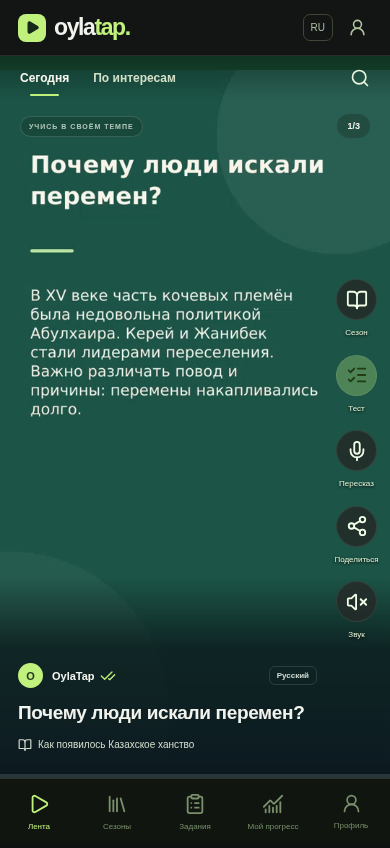
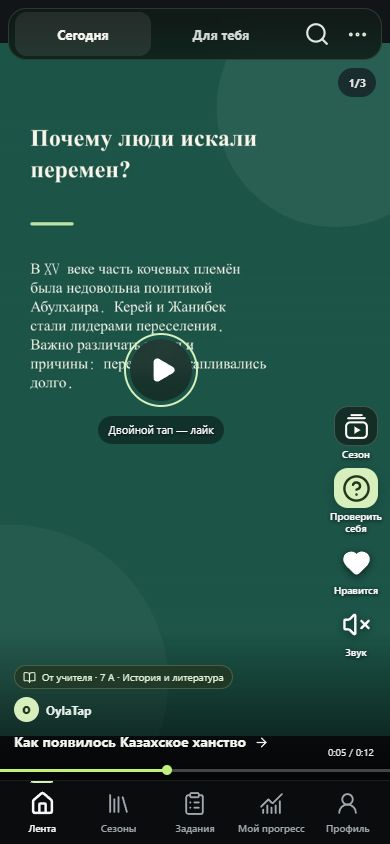
Refresh product README and save next iteration plan for October 18

Changed region(s): [[0.0, 0.3081, 1.0, 0.9858], [0.0, 0.0, 1.0, 0.5237]]

diff --git a/README.md b/README.md
@@ -1,109 +1,88 @@
 # OylaTap
 
-Первая рабочая версия образовательной PWA по [концепции 2.0](<Concept 2.0>). Основной экран — тёмная вертикальная лента: свайп между сериями, тест и пересказ рядом с видео. Интерфейс адаптирован для телефона и компьютера, основные сценарии доступны на русском и казахском.
+Образовательная платформа для школьников 11+ в Казахстане, учителей и авторов. Короткие вертикальные видео → микровопросы → итоговый тест → пересказ → прогресс. Первые направления — литература и история; также доступны алгебра и геометрия. Это не сервис подготовки к ЕНТ.
 
-## Что работает
+React + TypeScript + Vite, Express, **PostgreSQL 17** в Docker. Интерфейс на русском и казахском. Рабочая ветка — **main**, изменения отправляются напрямую коммитами.
 
-- Аккаунты ученика и учителя, вход, выход, настройки профиля. Пароли хешируются с scrypt, сессии хранятся в PostgreSQL, cookie — HttpOnly.
-- Видео занимает главный экран: свайп, действия справа, навигация снизу на телефоне. На компьютере блок «О теме» можно скрыть; есть перемотка и пауза пробелом. «Спокойный режим» по умолчанию приглушает акценты и уменьшает декоративную анимацию; настройки оформления и фокуса сохраняются на устройстве.
-- Страница темы с маршрутом «серии → тест → пересказ»: продолжение с первой непросмотренной серии, отдельные статусы просмотра и проверки знаний. После ошибки в тесте можно открыть связанную серию; в прогрессе есть следующий шаг для начатой темы. Пересказ остаётся добровольным, если его не назначил учитель.
-- Конечная лента «Сегодня»: до трёх роликов, микровопрос после каждого и итог сессии без автоподгрузки. Дневной набор сохраняется в PostgreSQL между устройствами и перезапусками; следующие дни продолжают длинную тему, а старое сданное задание не вытесняет новое. Правила и проверки: [дневные сессии](docs/DAILY_SESSIONS.md). Школьный режим учитывает текущую тему класса, свободный — слабые темы и интересы. Лента с настоящим воспроизведением MP4, свайпом, навигацией клавишами и планом сезона. Библиотека с поиском и фильтрами по предмету, языку и классу.
-- Раздельные микровопросы и итоговые тесты с серверной проверкой. Сохранённая история попыток, объяснения, переход к связанной серии и отдельное повторение только ошибочных вопросов. Последний, лучший и предыдущий баллы подписаны явно; практика не меняет итоговый результат. Правильные ответы не выдаются ученику до отправки. См. [историю тестов и работу над ошибками](docs/ASSESSMENT_HISTORY.md).
-- Запись пересказа до двух минут, прослушивание, согласие на сохранение, ручной текст, отзыв и оценка учителя, удаление собственной записи.
-- Учитель задаёт текущую тему всему классу, ученик — себе. Настраиваются интересы и одно напоминание в день в выбранное время (UTC+5), с тихим периодом 21:00–08:00. Сейчас напоминания работают при открытом приложении; доставка при закрытом приложении через Web Push ещё не подключена.
-- Классы и коды приглашения, задания и сроки. Учительский отчёт показывает последний, предыдущий и лучший тест, сохранённые ответы и частые ошибки. Есть очереди работ и пересказов, фильтры класса/темы/имени и CSV с теми же фильтрами. Просмотр, тест и оценка пересказа показаны отдельно. См. [отчёты учителя](docs/TEACHER_REPORTS.md) и [направление развития](docs/PRODUCT_DIRECTION.md).
-- Студия для учителей и авторов: PDF с текстом / TXT / MD → редактируемые серии и вопросы → видео без монтажа в стилях «Доска» (пошаговые формулы), «Субтитры» или «Карточка», без голоса, со своим голосом или синтезом речи → предпросмотр → публикация. Загрузка MP4 из Google Flow сохранена. Опубликованный ролик можно скачать для TikTok/Reels с подписью автора.
-- Авторы (роль «Я автор»): любой знающий тему человек публикует в общую ленту. Автоматические правила блокируют мат и рекламу ставок, ссылки, контакты и чувствительные темы отправляют модератору. Модератор одобряет или возвращает ролик с комментарием; после трёх одобрений автор публикует сразу. Жалобы «Нашёл ошибку?» скрывают ролик после трёх обращений до решения модератора. Подробно: [авторы и модерация](docs/CREATOR_PLATFORM.md).
-- Лента «Для тебя»: конечная подборка по классу и текущей учебной неделе (примерный справочник тем, требует проверки методистом), теме класса, слабым тестам, интересам, языку и качеству ролика. Причина выбора видна на ролике. Качество = досмотр + понимание (первые ответы) + лайки с меньшим весом; статистика и подсказки по стилю есть у автора.
-- Сезоны учителя по умолчанию доступны только назначенным классам. Открытую публикацию в библиотеке учитель выбирает явно. Запись ученика доступна ему и учителю назначившего класса.
-- Опциональный адаптер Ollama для настоящего ИИ-черновика сценария и вопросов. Ответ проверяется по схеме и сначала предлагается учителю для редактирования.
-- PWA-манифест, иконки и service worker с экраном отсутствия сети. Видео и личные результаты не кешируются на общем устройстве.
+## Текущее состояние — 17 октября 2026
 
-Демо: четыре гуманитарных направления (12 карточек без озвучки) и два ролика по алгебре от демо-автора («Доска» и «Субтитры»), класс и задание. Демо-учитель также модератор. Это примеры формата, а не проверенная школьная библиотека. Главная гипотеза проверяется по [протоколу](docs/VALIDATION_PILOT.md).
+- **Лента:** два режима — «Сегодня» и «Для тебя». «Сегодня» сохраняет короткую дневную сессию и приоритет темы класса; назначенный материал отмечен «От учителя». Справа четыре действия: серии, «Проверить себя», лайк и звук. Тест и пересказ открываются из общего блока. Конспект, отправка ссылки, жалобы и настройка интересов — в меню «⋯».
+- **Просмотр:** MP4, свайп, перемотка, пробел для паузы, один тап для паузы и двойной для лайка. Выбранный лайк красный. Анимации учитывают спокойный режим и системное уменьшение движения. На компьютере можно скрыть боковую информацию.
+- **Библиотека:** поиск по названию и описанию, предметы, раскрывающиеся фильтры языка и класса. На телефоне — широкие карточки с обложкой слева; на компьютере — сетка.
+- **Тема и тесты:** маршрут «серии → тест → пересказ», продолжение непросмотренной серии, серверная оценка, объяснения и переход к связанной серии после ошибки. Микровопросы и итоговые вопросы разделены; история попыток и ответов сохраняется. Практика по ошибкам не меняет итоговый балл. Просмотр и понимание учитываются отдельно.
+- **Пересказ:** запись до двух минут, прослушивание, текстовое дополнение, согласие на сохранение, отзыв и оценка учителя, удаление своей записи. Пересказ добровольный, если его не назначил учитель.
+- **Профиль:** карточка пользователя, переход к прогрессу, плитки интересов, выбор темы. Напоминание и личные данные раскрываются отдельно. Напоминания работают при открытом приложении; тихий период 21:00–08:00 (UTC+5).
+- **Учитель:** классы, приглашения по коду, текущая тема, задания и сроки. Отчёт показывает ответы учеников, последние/предыдущие/лучшие результаты, частые ошибки и очередь пересказов. CSV учитывает фильтры.
+- **Студия:** PDF с текстом / TXT / MD, сценарии и вопросы, загрузка MP4 или сборка в стилях «Карточка», «Доска», «Субтитры». Есть запись своего голоса, предпросмотр и публикация. Синтез речи и Ollama требуют отдельной настройки.
+- **Авторы и модерация:** роль автора, правила проверки текста, очередь модератора, жалобы, история решений, статистика досмотров, лайков и первых ответов. ИИ только предлагает замечания. Справочник учебных тем примерный и требует проверки методистом.
+- **Аккаунты и PWA:** роли, хеширование паролей, серверные сессии и разграничение доступа. Учительский материал по умолчанию доступен назначенным классам. Есть экран отсутствия сети; личные результаты и видео не кешируются для офлайн-просмотра.
 
-## Запуск
+Подробнее: [интерфейс](docs/INTERFACE.md), [дневные сессии](docs/DAILY_SESSIONS.md), [история тестов](docs/ASSESSMENT_HISTORY.md), [отчёты учителя](docs/TEACHER_REPORTS.md), [авторы и модерация](docs/CREATOR_PLATFORM.md).
 
-**Адрес `127.0.0.1` доступен только на том компьютере, где запущен сервер.** Сервер из облачной задачи Codex не появляется автоматически на вашем ПК. Для открытия сайта в браузере ПК скачайте эту ветку проекта и запустите её на том же ПК.
+## Готовое видео из Google Flow
 
-**Первый запуск Windows:** скачайте [ZIP с кодом MVP](https://github.com/Izumx/OylaTap/archive/refs/heads/mvp/tiktok-postgres.zip), распакуйте его и откройте `INSTALL-WINDOWS.cmd`. Установщик через Windows Package Manager скачает недостающие Node.js LTS, Docker Desktop и FFmpeg, обновит PATH, запустит Docker Desktop и дождётся движка. Затем он установит зависимости проекта, поднимет PostgreSQL, подготовит демо и откроет сайт в браузере. Окно сервера нужно оставить открытым.
+[Керей и Жанибек: рождение Казахского ханства — полный MP4](content/khanate-flow/oylatap-khanate-full-ru.mp4) включён в репозиторий: около 48 секунд, 720×1280, русская озвучка и встроенные субтитры. Сцены — художественная ИИ-реконструкция.
 
-Windows может запросить подтверждение установки и настройку WSL / перезагрузку для Docker Desktop. После перезагрузки снова откройте `INSTALL-WINDOWS.cmd`: установленные компоненты пропускаются. Если `winget` отсутствует, установщик откроет официальную страницу «Установщика приложений» Microsoft. Проверка хешей пакетов остаётся включённой. Автоматический установщик Windows подготовлен в облачной Linux-среде; на физическом ПК Windows его выполнение ещё не проверено.
+[Рецепт сборки](content/khanate-flow/README.md), [метаданные и вопросы](content/khanate-flow/lesson.json). В текущей локальной PostgreSQL тема опубликована в общей библиотеке: `/learn/f9285ed2-b8cf-419e-83e8-c6844a65f74a`. Путь к MP4 относительный. Сам файл приходит с Git; записи темы в новой базе автоматически из него не создаются — для новой установки материал нужно импортировать через студию.
 
-Для следующих запусков откройте Docker Desktop, затем `START-WINDOWS.cmd` в распакованной папке проекта. Он подготовит базу и откроет браузер. При отсутствии компонента появится конкретное сообщение.
+## Локальный запуск
 
-Если компоненты ещё не установлены, их можно установить из PowerShell через Windows Package Manager:
+Нужны Node.js 22.12+, npm, Docker Desktop с Compose, FFmpeg и FFprobe в PATH. База — PostgreSQL; облачный сервис базы для локального запуска не требуется.
+
+Текущая рабочая установка использует **порт 3000 из .env**:
+
+- ученик: [127.0.0.1:3000](http://127.0.0.1:3000/);
+- учитель: [localhost:3000/classes](http://localhost:3000/classes).
+
+Это один сервер и одна база. Разные имена хоста позволяют держать отдельные сессии. Адрес 127.0.0.1 доступен на компьютере, где запущен сервер. Порт по умолчанию в коде и `.env.example` — **3100**; существующий `.env` сохраняется.
+
+Для новой установки в PowerShell, из корня проекта:
 
 ```powershell
-winget install --exact --id OpenJS.NodeJS.LTS
-winget install --exact --id Docker.DockerDesktop
-winget install --exact --id Gyan.FFmpeg
-```
-
-После установки закройте терминал, откройте Docker Desktop и дождитесь запуска движка. Если Docker запросит настройку WSL или перезагрузку, завершите её перед запуском проекта. Затем откройте `START-WINDOWS.cmd`. Помощник проверен в облачной Linux-среде; запуск на физическом ПК Windows требует проверки на вашем устройстве.
-
-Во всех ОС можно запустить из корня проекта:
-
-```bash
-node scripts/local-start.mjs
-```
-
-Проверка установленных компонентов без установки зависимостей и запуска сервера: `node scripts/local-start.mjs --check`.
-
-Требуются **Node.js 22.12+**, npm, Docker Compose, **FFmpeg и FFprobe** в PATH. В облачной среде проверено с Node.js 24 и PostgreSQL 17. База приложения — исключительно PostgreSQL.
-
-Из корня репозитория:
-
-```bash
-bash scripts/setup.sh
-npm run dev
-```
-
-Приложение использует порт `3100`. На странице входа есть «Попробовать как ученик» и «Попробовать как учитель». Для отдельного аккаунта выберите «Создать аккаунт». Демо-аккаунты общие: изменения видны другим посетителям демо.
-
-Ручные шаги, в том числе для Windows с установленным Docker Desktop:
-
-```bash
 npm ci
-# Скопируйте .env.example в .env, если .env ещё отсутствует.
+if (!(Test-Path .env)) { Copy-Item .env.example .env }
 docker compose up -d db
 npm run db:migrate
+# Только для новой демонстрационной базы с DEMO_MODE=true:
 npm run db:seed
-npm run dev
+npm run build
+npm start
 ```
 
-Миграции и сид повторяемы. Сид разрешён только при `DEMO_MODE=true`; существующие сезоны и пользовательские результаты не сбрасываются. `scripts/setup.sh` сохраняет существующий `.env`. Для внешней PostgreSQL задайте `DATABASE_URL` и запускайте `SKIP_LOCAL_DB=1 bash scripts/setup.sh`.
+Для существующей установки после получения изменений достаточно применить новые миграции, собрать интерфейс и запустить сервер. Демонстрационный сид для обновления интерфейса не нужен. Для разработки — `npm run dev`.
 
-```bash
-npm run build          # TypeScript и production-сборка
-npm start              # сервер с собранным интерфейсом
-npm test               # браузерные и API-проверки с реальной PostgreSQL
+Есть помощники `INSTALL-WINDOWS.cmd`, `START-WINDOWS.cmd` и `node scripts/local-start.mjs`. Автоматическую установку компонентов Windows целиком на чистом ПК пока не проверяли. В запускателе остаётся известная ошибка поиска свободного порта при занятом 3100; ручной запуск использует PORT из `.env`.
+
+Получение проекта: `git clone https://github.com/Izumx/OylaTap.git` или [архив main](https://github.com/Izumx/OylaTap/archive/refs/heads/main.zip).
+
+## Проверка
+
+```powershell
 npm run format:check
+npm run build
+# Тестовый сервер и браузерные сценарии используют порт 3100:
+$env:PORT = '3100'
+npm test
 ```
 
-Тесты используют установленный Google Chrome, порт 3100, демо-сезоны и отдельные временные аккаунты. При отсутствии Chrome установите его: `npx playwright install --with-deps chrome`. Для другого браузера с поддержкой H.264, например Microsoft Edge, задайте `CHROMIUM_PATH` с полным путём к исполняемому файлу. Обычный Chromium из комплекта Playwright на Linux не поддерживает нужный кодек MP4; подробнее — [документация Playwright о медиакодеках](https://playwright.dev/docs/browsers#media-codecs). CI тоже использует Chrome и сохраняет снимки экрана и трассировки при ошибках на 7 дней.
+В наборе **40 автоматических сценариев** с реальной PostgreSQL и Google Chrome. Поддерживается CHROMIUM_PATH для другого браузера с H.264. Для установки Chrome в среде тестирования: `npx playwright install --with-deps chrome`. Тесты создают временные аккаунты и удаляют свои записи; микрофон эмулируется. Используйте демонстрационную или отдельную тестовую базу.
 
-Тесты удаляют только созданные ими записи. Для браузерных тестов микрофон эмулируется. Не запускайте тесты на базе реальной школы.
+Проверка 17 октября: сборка и форматирование прошли. В полном запуске прошли 37/40; затем исправлено наложение гостевых диалогов и обновлены устаревшие пути проверок. Все три затронутых сценария и новый сценарий компактного меню прошли при повторном запуске (4/4). Результат GitHub Actions проверяется отдельно.
 
-## Данные и процессы
+Текущее оформление: [лента на телефоне](docs/screens/feed-mobile.png), [библиотека](docs/screens/library-mobile.png), [профиль](docs/screens/profile-mobile.png).
 
-`DATABASE_URL` задаёт подключение. Docker Compose хранит данные в томе `postgres_data`; `docker compose down` сохраняет том, `down -v` удаляет его. Тексты, ответы и результаты находятся в PostgreSQL. Видео и аудио — в `DATA_DIR` (по умолчанию `.local/uploads`), путь и права доступа — в базе. При переносе нужны и база, и каталог медиа.
+## Данные и перенос
 
-После перезапуска нужно снова поднять PostgreSQL и приложение. Сборка видео, прерванная перезапуском, получает статус ошибки; сценарий сохранён и можно повторить сборку. Фоновая сборка пока работает в процессе приложения, а не в отдельной распределённой очереди. В новой облачной машине сохранность Docker-тома нужно проверить; для демо при отсутствии базы можно повторить миграции и сид. Восстановление после публикации облачного снимка ещё не проверено.
+Настройки подключения находятся в `.env`. Docker хранит PostgreSQL в томе postgres_data; удаление тома удаляет базу. Пользователи, задания, ответы и прогресс находятся в PostgreSQL. Обычные загрузки видео и аудио — в DATA_DIR (по умолчанию `.local/uploads`), пути и права доступа — в базе. Для переноса нужны **база и медиа**, а также файл Flow из репозитория.
 
-Для HTTPS задайте `COOKIE_SECURE=true`. Запись с микрофона требует HTTPS или локального защищённого контекста браузера. Для реального пилота используйте отдельную базу, свои закрытые учётные данные PostgreSQL и `DEMO_MODE=false`. Не переносите учебные данные детей в общие демо-аккаунты.
+`.env`, `.local/`, файлы аккаунтов и резервные копии не добавляются в Git. Данные входа текущей установки хранятся в `.local/МОИ-АККАУНТЫ.txt`.
 
-## Локальный ИИ и Google Flow
+Новый демонстрационный сид добавляет учебные примеры и демо-автора, а демо-учителю назначает модерацию. На существующей базе одни миграции не создают этих пользователей и не назначают модератора. Демонстрационные материалы показывают формат и не считаются проверенной школьной библиотекой.
 
-См. [подключение локального ИИ и производство видео](docs/LOCAL_AI.md). В текущей облачной среде Ollama не запущена: кнопка ИИ-черновика отключена до подключения. Контракт адаптера проверен автоматическим тестом; качество реальной модели на ПК основателя пока не проверялось.
+## Что дальше
 
-Подписка Google Flow используется через создание и экспорт MP4, затем загрузку в серию. Автоматическое API-подключение Flow не заявляется. Приложение проверяет MP4/H.264, длительность до трёх минут и размер до 80 МБ.
+**По решению от 17 октября реализация следующих идей отложена на 18 октября.** [План следующей итерации](docs/NEXT_ITERATION_2026-10-18.md): микровопрос после ролика и понятный следующий шаг на странице темы. Там же сохранены идеи для прогресса, обложек библиотеки и рабочего экрана учителя. Более широкий план: [направление развития](docs/PRODUCT_DIRECTION.md).
 
-## Что ещё нужно до школьного пилота
+До школьного пилота нужны проверенные педагогом материалы, проверка RU/KK на реальных телефонах, восстановление доступа, проверенное восстановление базы и медиа, правила хранения данных и школьные согласия. Распознавание речи, автоматическая оценка пересказа и Web Push при закрытом приложении не подключены. Сканы PDF требуют OCR. Фоновая сборка видео работает в процессе приложения; распределённой очереди пока нет.
 
-Это рабочая итерация MVP, а не готовый публичный запуск. Распознавание речи, предварительная ИИ-оценка пересказа, озвучка и генерация иллюстраций ещё не подключены. Для видео пока есть импорт готовых роликов и карточки с текстом. Сканы PDF требуют отдельного OCR.
-
-Нужно согласовать первые классы и темы, проверить контент с педагогом, качество казахской озвучки и распознавания, а также роли школы, необходимые согласия, сроки хранения, размещение и резервное копирование данных. Формальное согласие родителя/школы не заменяется флажком записи. Восстановление пароля, проверка email, управление школой, автоматическое удаление по сроку и устойчивая очередь генерации — следующие задачи. Офлайн-сезоны остаются вне первой версии.
-
-Проверки включают TypeScript, production-сборку, установку с чистой PostgreSQL, двадцать восемь автоматических браузерных/API-сценариев, адаптивность и экран отсутствия сети. Маршрут и лента проверяются с реальной PostgreSQL на Windows через Microsoft Edge, включая продолжение просмотра, возврат к серии после ошибки, сохранение результата после перезагрузки, перемотку, управление пробелом и настройки оформления. Контракт Ollama проверяется с тестовым сервером; реальная модель и доставка фоновых уведомлений ещё не проверены. GitHub Actions настроен, результат удалённого запуска нужно смотреть отдельно.
-
-Скриншоты: [лента на компьютере](docs/screens/feed-desktop.png), [лента на телефоне](docs/screens/feed-mobile.png), [конец сессии](docs/screens/session-end-mobile.png).
+Подключение локальных моделей и озвучки: [LOCAL_AI.md](docs/LOCAL_AI.md). Адаптеры проверены, качество реальных локальных моделей и казахской озвучки требует отдельной проверки. Для проверки образовательной пользы подготовлен [протокол пилота](docs/VALIDATION_PILOT.md).

diff --git a/docs/PRODUCT_DIRECTION.md b/docs/PRODUCT_DIRECTION.md
@@ -14,19 +14,21 @@
 
 ## Ближайшая последовательность
 
-| Этап | Результат для человека | Что сделать | Как понять, что работает |
-| --- | --- | --- | --- |
-| **Сейчас: учитель видит затруднение** | Можно найти работу, открыть ответы и выбрать серию для повторения | Последние/предыдущие баллы, частые ошибки, очереди и фильтрованный CSV, удобный мобильный отчёт | Реализовано в первой части И3; см. [проверки](TEACHER_REPORTS.md) |
-| **Пересказ с понятной обратной связью** | Ученик знает, что получилось и что улучшить | Рубрика под тему, примеры уровней, доработка, история версий и ответ учителя | Ученик видит критерии до записи и получает конкретный следующий шаг; старые оценки сохраняются |
-| **Первый вход и актуальные задания** | Новый ученик приходит по приглашению прямо в нужную тему | Ссылка приглашения, язык обучения, понятный выбор класса, архив завершённых заданий | Ученик проходит путь приглашение → аккаунт → класс → тема без помощи основателя |
-| **Личный маршрут повторения** | После ошибки понятно, к чему вернуться и как проверить себя снова | Объяснимый список тем для повторения и короткая отложенная проверка по выбранной теме | Можно отличить немедленное исправление ответа от сохранённого понимания; без бесконечной ленты |
-| **Подготовка небольшого пилота** | Учитель может надёжно провести занятие и восстановить работу после сбоя | Восстановление доступа, резервная копия PostgreSQL и медиа с пробным восстановлением, реальные телефоны/PWA/микрофоны, проверенные педагогом темы | Проверен весь путь 1–2 классов и восстановление данных; результаты, ограничения и обратная связь записаны |
+**Актуализация 17 октября 2026:** ближайший этап — микровопрос и страница темы; реализация отложена владельцем на 18 октября. Подробности и критерии результата: [план следующей итерации](NEXT_ITERATION_2026-10-18.md). Таблица ниже сохраняет дальнейшие направления после этого этапа.
+
+| Этап                                    | Результат для человека                                                  | Что сделать                                                                                                                                       | Как понять, что работает                                                                                  |
+| --------------------------------------- | ----------------------------------------------------------------------- | ------------------------------------------------------------------------------------------------------------------------------------------------- | --------------------------------------------------------------------------------------------------------- |
+| **Сейчас: учитель видит затруднение**   | Можно найти работу, открыть ответы и выбрать серию для повторения       | Последние/предыдущие баллы, частые ошибки, очереди и фильтрованный CSV, удобный мобильный отчёт                                                   | Реализовано в первой части И3; см. [проверки](TEACHER_REPORTS.md)                                         |
+| **Пересказ с понятной обратной связью** | Ученик знает, что получилось и что улучшить                             | Рубрика под тему, примеры уровней, доработка, история версий и ответ учителя                                                                      | Ученик видит критерии до записи и получает конкретный следующий шаг; старые оценки сохраняются            |
+| **Первый вход и актуальные задания**    | Новый ученик приходит по приглашению прямо в нужную тему                | Ссылка приглашения, язык обучения, понятный выбор класса, архив завершённых заданий                                                               | Ученик проходит путь приглашение → аккаунт → класс → тема без помощи основателя                           |
+| **Личный маршрут повторения**           | После ошибки понятно, к чему вернуться и как проверить себя снова       | Объяснимый список тем для повторения и короткая отложенная проверка по выбранной теме                                                             | Можно отличить немедленное исправление ответа от сохранённого понимания; без бесконечной ленты            |
+| **Подготовка небольшого пилота**        | Учитель может надёжно провести занятие и восстановить работу после сбоя | Восстановление доступа, резервная копия PostgreSQL и медиа с пробным восстановлением, реальные телефоны/PWA/микрофоны, проверенные педагогом темы | Проверен весь путь 1–2 классов и восстановление данных; результаты, ограничения и обратная связь записаны |
 
 ## Как улучшаем дизайн
 
 Один понятный следующий шаг на экране. Сначала текущее действие и состояние работы, затем подробности. Различаем «не начал», «начал», «проверено» и «нужна помощь» словами, а не только цветом. Везде учитываем небольшие телефоны, клавиатуру, читаемость и оба языка. Пустые состояния объясняют следующий шаг, а демонстрационные данные не выдаются за деятельность настоящих учеников.
 
-Для ближайшего этапа приоритетны карточки заданий и пересказ с обратной связью. Общую смену визуального стиля стоит оценивать после проверки основных сценариев, чтобы изменения оставались узнаваемыми для ученика и учителя.
+Для ближайшего этапа приоритетны понятное завершение микровопроса и один следующий шаг на странице темы. Карточки заданий и пересказ с обратной связью остаются дальнейшими направлениями. Мобильная лента, библиотека и профиль уже обновлены; следующие решения принимаем после проверки полного учебного маршрута.
 
 ## Что остаётся за пределами этой итерации
 

diff --git a/docs/NEXT_ITERATION_2026-10-18.md b/docs/NEXT_ITERATION_2026-10-18.md
@@ -1,0 +1,26 @@
+# Следующая итерация — 18 октября 2026
+
+Зафиксировано 17 октября по просьбе владельца. Сегодня сохраняем код и документацию; реализацию перечисленных идей откладываем на завтра. Документ не запускает работу автоматически.
+
+## С чего начать
+
+Пройти маршрут на готовом видео «Керей и Жанибек»: просмотр → микровопрос → итоговый тест → объяснение ошибки → повторение → пересказ. Проверить текущий код и реальные состояния до изменений: часть необходимых функций уже есть.
+
+1. **Микровопрос после видео.** Короткое объяснение ответа и заметная кнопка следующей серии. После закрытия вопроса должен быть понятен выбор: вернуться к вопросу, повторить видео или продолжить. Проверить последнюю серию и гостевой вход; не записывать прохождение за одно открытие вопроса.
+2. **Страница темы.** Один главный следующий шаг по реальным данным: продолжить просмотр, пройти тест или разобрать ошибки. Отдельно показывать просмотр, результат теста и пересказ. Сохранять доступ к другим шагам маршрута; пересказ не делать обязательным без задания учителя.
+
+Готовность: ученик проходит весь маршрут на телефоне без объяснений основателя; после перезагрузки сохраняются просмотр, ответы и правильный следующий шаг. Ошибочный ответ ведёт к связанной серии. Прежние результаты, оценки и записи остаются доступны. Проверить RU/KK, клавиатуру и отсутствие переполнения на узком экране.
+
+## Затем, по приоритету
+
+| Идея                                                | Польза                                                                   | Что проверить перед реализацией                                                                            |
+| --------------------------------------------------- | ------------------------------------------------------------------------ | ---------------------------------------------------------------------------------------------------------- |
+| Прогресс с конкретными действиями                   | Видно, какие темы начаты, где остались ошибки и получен ли отзыв учителя | Использовать реальные попытки и оценки; не дублировать уже существующий следующий шаг                      |
+| Настоящие обложки видео и «Продолжить» в библиотеке | Готовый ролик легче найти, начатую тему — продолжить                     | Получение обложек из локального MP4, права доступа, перенос медиа, отличие демо от проверенного контента   |
+| Рабочий экран учителя                               | Быстрее найти ученика с затруднениями и пересказ на проверку             | Уже есть очереди, ответы и частые ошибки; дорабатывать по конкретным затруднениям, не строить второй отчёт |
+
+## Техническое правило продолжения
+
+Сначала проверить Git и получить изменения друга без потери локальной работы. Работать с PostgreSQL, сохранять `.env`, аккаунты и медиа. Проверять интерфейс и сохранение данных, обновлять документацию, коммитить и отправлять прямо в `main`. Публикация на Vercel и создание Supabase не входят в работу.
+
+Состояние перед продолжением: [README](../README.md), [интерфейс](INTERFACE.md), [история тестов](ASSESSMENT_HISTORY.md), [дневные сессии](DAILY_SESSIONS.md). Известные отдельные недоделки: диапазон портов в локальном запускателе, назначение модератора для существующей базы, восстановление доступа и пробное восстановление резервной копии. Они не считаются выполненными.
